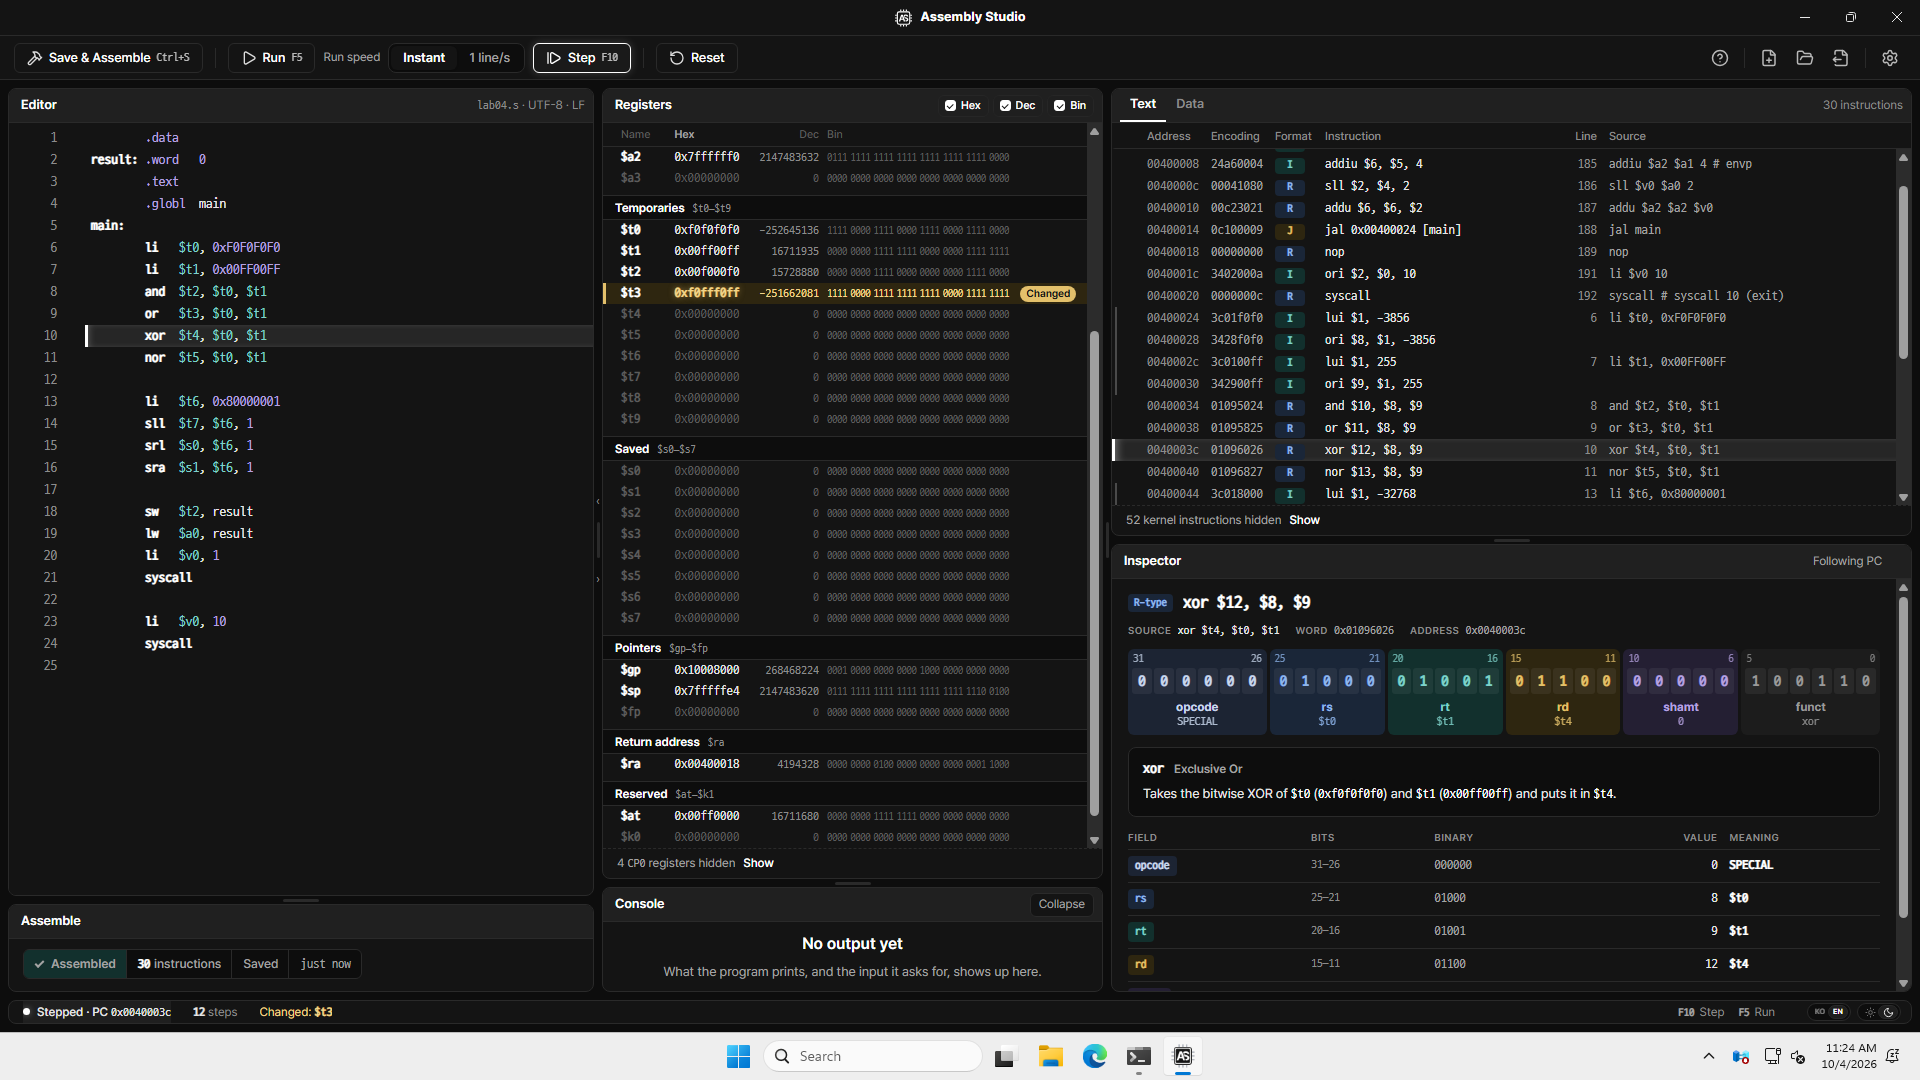
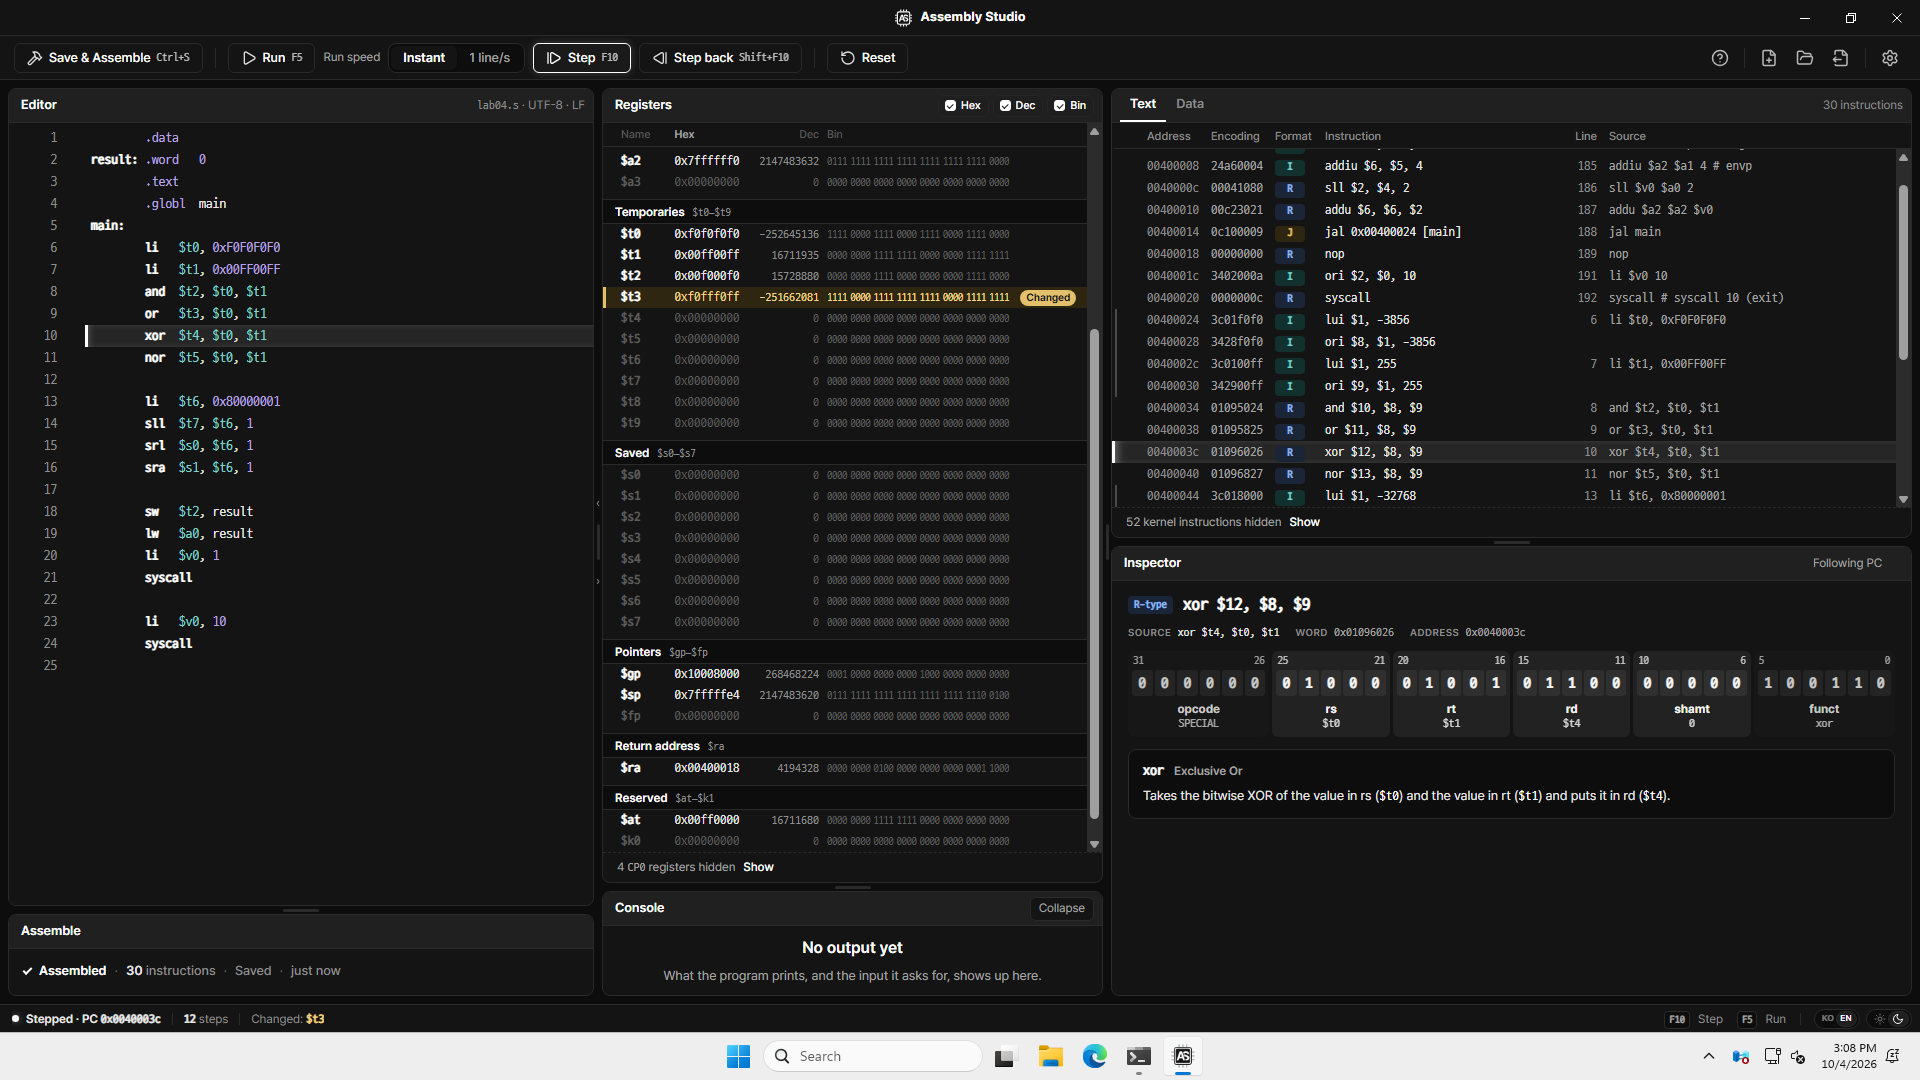
README: updates with their screenshot, editing keys, the status bar, the license table; a current Windows screenshot

diff --git a/README.md b/README.md
@@ -46,9 +46,13 @@ To uninstall, use Windows Settings › Apps.
 
 At launch, while the first screen opens, the program checks [Releases](../../releases) for a newer version (only
 the release marked Latest; trial pre-releases are never offered). If there is one, the first screen shows its
-download with a progress bar instead of the MIPS / RISC-V choice; when the download is complete, the program
-installs it silently and starts the new version. With no update, no connection or no answer within a few seconds,
-the first screen goes on as usual; a failed download is shown for a moment, then the first screen goes on.
+download with a progress bar instead of the MIPS / RISC-V choice, and says that the program will install it and
+start again by itself. When the download is complete, the window closes for a few seconds while the update installs
+silently, then the new version opens. With no update, no connection or no answer within a few seconds, the first
+screen goes on as usual; a failed download is shown for a moment, then the first screen goes on.
+
+![The first screen downloading an update, with its progress bar and the note that it restarts by itself](docs/images/update.png)
+*An update at launch: a few megabytes, then the program restarts by itself.*
 
 From 1.4.0, an update downloads only the parts of the installer that changed, usually a few megabytes rather than
 the whole installer. For this the installed program keeps a copy of its installer (about 130 MB) in
@@ -88,6 +92,7 @@ pre-releases either: `release.yml` builds every installer from them.
 | Go back to the start | **Reset**. It restarts the last assembled program; it does not assemble again |
 | Set or clear a breakpoint | Click the gutter to the left of the line numbers in the Editor |
 | Comment or uncomment lines | `Ctrl+/` (on an empty line, starts a comment) |
+| Indent | `Tab` inserts spaces to the next multiple of four; with lines selected, `Tab` and `Shift+Tab` indent and outdent them. `Enter` keeps the indentation of the line above |
 | Change the font size | `Ctrl` `+`, `Ctrl` `-`, `Ctrl` `0` (reset), or Settings |
 | Open a file | `Ctrl+O`, or the Open file button in the toolbar |
 | Start a new file | The New file button in the toolbar |
@@ -98,8 +103,9 @@ pre-releases either: `release.yml` builds every installer from them.
 
 - **Editor.** A code editor with syntax highlighting. A dot next to the file name in the Editor's header means there
   are unsaved changes.
-- **Assemble.** Below the Editor. It shows whether the program assembled and lists errors and warnings with their
-  line and a hint on how to fix them. **Go to line** moves the cursor to the line with the error.
+- **Assemble.** Below the Editor. One line says how the last assemble went ("Assembled · 30 instructions · Saved ·
+  just now"); below it, any errors and warnings with their line and a hint on how to fix them. **Go to line** moves
+  the cursor to the line with the error.
 
   ![The Assemble panel with an assembly error and the Go to line button](docs/images/errors.png)
   *An assembly error in the Assemble panel, with Go to line.*
@@ -113,15 +119,19 @@ pre-releases either: `release.yml` builds every installer from them.
   choose the radix of the values.
 - **Inspector.** Splits one instruction into its 32 bits, grouped into its fields, each with its name and meaning,
   and says what the instruction does in the same way for every use of it: the fields by name with this instruction's
-  register or number, for example "rt (`$a0`) … shamt (`2`) … rd (`$v0`)" (in the language you chose). Click an instruction in the Text tab to keep the Inspector on it; **Follow PC** (or
-  `Esc`) makes it follow the current instruction again.
+  register or number, for example "rt (`$a0`) … shamt (`2`) … rd (`$v0`)" (in the language you chose). Click an
+  instruction in the Text tab to keep the Inspector on it; **Follow PC** (or `Esc`) makes it follow the current
+  instruction again.
 - **Console.** The program's output, and the box for its input.
+- **Status bar.** Along the bottom of the window: the state and PC ("Stepped · PC 0x0040003c"), the steps run, the
+  registers the last step changed, and at the far end the keys that do something now, then the language and theme
+  switches.
 - **Light and dark.** The sun/moon switch at the bottom right (on the first screen, the card's bottom-right corner).
 - **Language.** The KO/EN switch beside it (on the first screen, the card's bottom-left corner), or Settings ›
   **Language**: Korean or English for the first screen, the tutorial, the instruction explanations, the assembler's
   errors and hints, the dialogs and the tutorial's example comments. The panels, buttons, the Assemble panel's state
-  and the status line are in English in both. It starts in the
-  system's language (Korean on a Korean system, English otherwise).
+  and the status bar are in English in both. It starts in the system's language (Korean on a Korean system, English
+  otherwise).
 - **Resizing.** Drag the border between two panels to resize them. Double-click a border to return to the default size.
 - **Settings.** The gear button in the toolbar:
   - **Font size**;
@@ -218,7 +228,7 @@ program, open **Settings › About · Licenses › Licenses**. The license files
 
 | Component | Version | License | Used for |
 |---|---|---|---|
-| Assembly Studio | 1.0.0 | BSD-3-Clause | This program |
+| Assembly Studio | 1.6.1 | BSD-3-Clause | This program |
 | SPIM | 9.1.24 | BSD-3-Clause (SPIM license) | MIPS engine |
 | RARS | 1.6 | MIT | RISC-V engine |
 | jEdit syntax package (inside RARS) | — | Permissive notice (see NOTICE) | Part of the unmodified RARS jar |
@@ -233,6 +243,7 @@ program, open **Settings › About · Licenses › Licenses**. The license files
 | CodeMirror, @lezer, and their dependencies | see NOTICE | MIT | Code editor |
 | iconv-lite, safer-buffer | 0.7.3, 2.1.2 | MIT | Reading and writing CP949 files |
 | node-addon-api | 8.9.2 | MIT | C++ binding of the SPIM addon |
+| electron-updater and its dependencies | 6.8.9, see NOTICE | MIT (semver, graceful-fs: ISC; sax: BlueOak-1.0.0) | Updates at launch |
 | flex | 2.6 | BSD-style (acknowledgement) | Generated SPIM's scanner |
 | GNU Bison | — | GPL-3.0-or-later with Bison exception | Generated SPIM's parser |
 | NSIS, electron-builder | — | Zlib, MIT | Installer and uninstaller |
